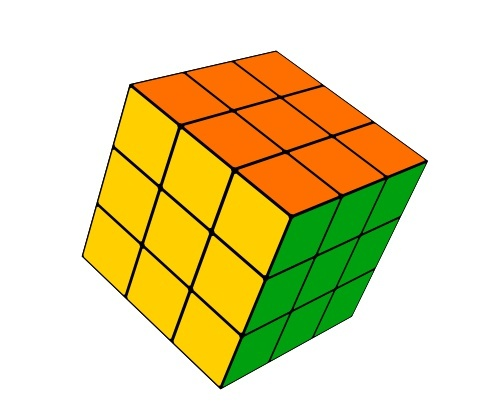
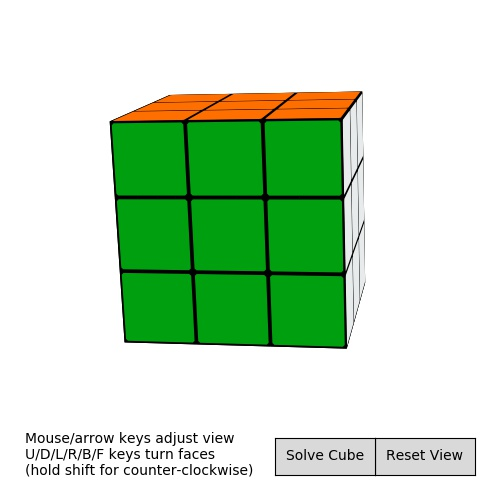
update readme

diff --git a/code/estimatequat.py b/code/estimatequat.py
@@ -1,0 +1,52 @@
+import cv2
+import os
+import csv
+import numpy as np
+
+imgnames = os.listdir("images/")
+
+for imgname in imgnames[2:]:
+	image = cv2.imread("images/test210.jpg")#+imgname)
+	im = image.copy()
+	gray = cv2.cvtColor(image, cv2.COLOR_BGR2GRAY) 
+	blur = cv2.GaussianBlur(gray, (5,5), 0)
+	thresh = cv2.adaptiveThreshold(blur, 255, 1, 1, 11, 2)
+	edged = cv2.Canny(gray, 30, 200) 
+	contours, hierarchy = cv2.findContours(edged, cv2.RETR_EXTERNAL, cv2.CHAIN_APPROX_NONE)
+
+	print("Number of Contours found = " + str(len(contours[0]))) 
+	mask = np.zeros((gray.shape),np.uint8)
+
+	max_area = 0
+	c = 0
+	best_cnt = 0
+	for i in contours:
+		area = cv2.contourArea(i)
+		if area > 100:
+			if area>max_area:
+				max_area = area
+				best_cnt = i
+				image = cv2.drawContours(image, contours, c, (0, 255, 0), 3)
+		c+=1
+	cv2.drawContours(mask,[best_cnt],0,255,-1)
+	cv2.drawContours(mask,[best_cnt],0,0,2)
+	out = np.zeros_like(gray)
+	out[mask == 255] = gray[mask == 255]
+	blur = cv2.GaussianBlur(out, (5,5), 0)
+	thresh = cv2.adaptiveThreshold(blur, 255, 1, 1, 11, 2)
+	contours, hierarchy = cv2.findContours(thresh, cv2.RETR_TREE, cv2.CHAIN_APPROX_SIMPLE)
+	c = 0
+	z=0
+	for i in contours:
+		area = cv2.contourArea(i)
+		if area > 0:
+			cv2.drawContours(image, contours, c, (0, 255, 0), 1)
+			z+=1
+		c+=1
+	print(z)
+	cv2.imshow("Original Image", im)
+	cv2.imshow("Grid Detection", image)
+	cv2.waitKey(0)
+	break
+# best_cnt = i
+                    # image = cv2.drawContours(image, contours, c, (0, 255, 0), 3)

diff --git a/code/cube_interactive.py b/code/cube_interactive.py
@@ -213,7 +213,8 @@ class InteractiveCube(plt.Axes):
         self._view = view
         # self._start_rot = Quaternion((1, -1, 0),
         #                                           -np.pi / 6)
-        self._start_rot = Quaternion([ 1,2,3,4])
+        # self._start_rot = Quaternion([ 1,2,3,4])
+        self._start_rot = Quaternion([ 1e-2,1e-2,1e-2,1e-2])
 
         if fig is None:
             fig = plt.gcf()

diff --git a/README.rst b/README.rst
@@ -1,17 +1,23 @@
 Magic Cube
 ==========
 
-It had to happen someday.  Somebody stop me!
+I've modified this visualization software to generate a dataset for estimating Quaternion Rotation Matrices using images of a Rubik's Cube in different orientations.
 
-.. image:: http://4.bp.blogspot.com/-iruqaXDstKk/UKBejowDVkI/AAAAAAAAZkM/c2tir0qcexQ/s400/test04.png
-   :alt: cube views
+AICrowd had a similar dataset, but it was plagued by differences in illumination, which made it extremely difficult to work with. MagicCube does not have any of those problems!
+
+This problem can be solved using Machine Learning and Image Regression, but I'm trying out Image Geometry and Simple Linear Algebra for this! - Stay tuned for more updates.
+
+Some assumptions while making the dataset
+-----
+All colors are solid.
+
+The initial orientation (Quaternion [0,0,0,0]) has Green facing front, and Orange on top, as shown below.
+.. image:: initor.png
+   :alt: init_view
    :align: left
 
-Authors
--------
+I have also ensured that at least two faces are visible when generating the images and their quaternion rotations.
 
-- **David W. Hogg** (NYU)
-- **Jacob Vanderplas** (UW)
 
 Usage
 -----
@@ -32,26 +38,9 @@ This will create a 5x5x5 cube
 This code should currently be considered to be in beta --
 there are several bugs and the GUI has an incomplete set of features
 
-Controls
-********
-- **Click and drag** to change the viewing angle of the cube.  Holding shift
-  while clicking and dragging adjusts the line-of-sight rotation.
-- **Arrow keys** may also be used to change the viewing angle.  The shift
-  key has the same effect
-- **U/D/L/R/B/F** keys rotate the faces a quarter turn clockwise.  Hold the
-  shift key to rotate counter-clockwise.  Hold a number i to turn the slab
-  at a depth i (e.g. for a 3x3 cube, holding "1" and pressing "L" will turn
-  the center slab).
-
-Other - Continued by Srinath (hi there! :D)
-~~~~~
-I've modified this visualization software to generate a dataset for estimating Quaternion Rotation Matrices using images of a Rubik's Cube in different orientations.
-
-AICrowd had a similar dataset, but it was plagued by differences in illumination, which made it extremely difficult to work with. MagicCube does not have any of those problems!
-
-
-
-This problem can be solved using Machine Learning and Image Regression, but I'm trying out Image Geometry and Simple Linear Algebra for this! - Stay tuned for more updates.
+Acknowledgements
+-------
+Huge thanks to David W. Hogg and Jacob Vanderplas for this amazing Visualization tool!
 
 
 License
